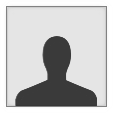
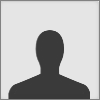
Fixed 8 profile picture upload [complete #22214719]

Changed region(s): [[0.0, 0.0, 1.0, 1.0]]

diff --git a/Soclivity/BasicInfoView.m b/Soclivity/BasicInfoView.m
@@ -298,6 +298,8 @@
         Img = [self compressImage:Img size:CGSizeMake(100,100)];
     
     [profileBtn setBackgroundImage:Img forState:UIControlStateNormal];
+    [[profileBtn layer] setBorderWidth:1.0];
+    [[profileBtn layer] setBorderColor:[SoclivityUtilities returnTextFontColor:4].CGColor];
     setYourPic.hidden=YES;
 
 

diff --git a/Soclivity/SoclivityUtilities.m b/Soclivity/SoclivityUtilities.m
@@ -47,7 +47,7 @@
             
         case 4:
         {
-            return [UIColor colorWithRed:137.0/255.0 green:137.0/255.0 blue:137.0/255.0 alpha:1.0];
+            return [UIColor colorWithRed:130.0/255.0 green:130.0/255.0 blue:130.0/255.0 alpha:1.0];
             
             break;
         }
